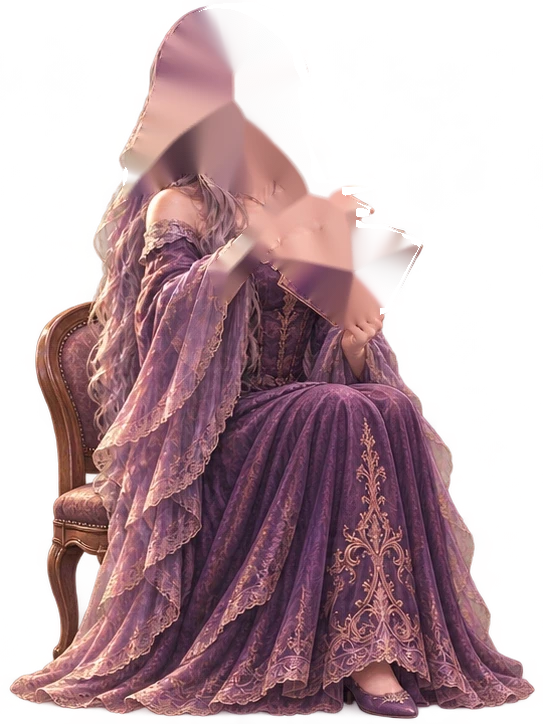
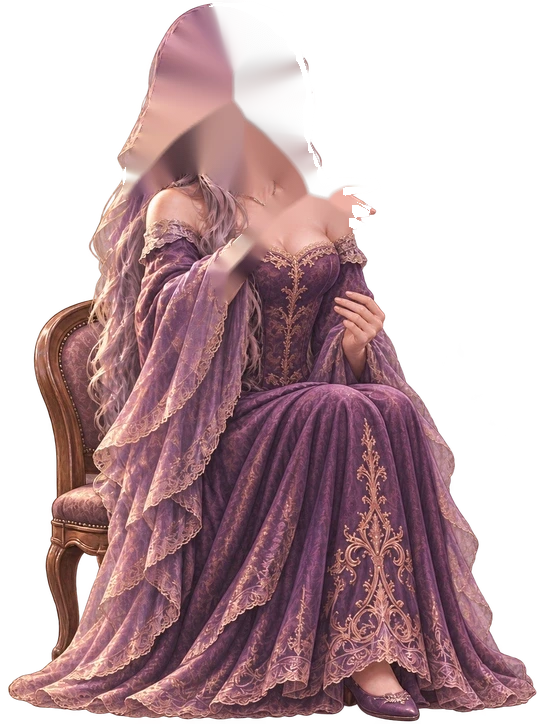
Restore the dealing costume and request direct tarot answers

diff --git a/magiccard/tools/render_seated.py b/magiccard/tools/render_seated.py
@@ -3,6 +3,7 @@
 Outlines are traced in the 288 x 384 storyboard coordinate system.
 """
 from pathlib import Path
+import argparse
 import cv2
 import numpy as np
 from PIL import Image
@@ -15,11 +16,21 @@ arms = {
     "answer": [(197,158),(210,152),(219,144),(232,140),(251,137),(254,141),(243,146),(256,147),(265,146),(267,151),(256,157),(240,162),(229,161),(216,157),(198,173)]
 }
 props = {
-    "deal": [(141,136),(154,128),(181,119),(201,119),(224,128),(205,165),(182,174)],
     "think": [(164,143),(168,104),(192,103),(194,108),(186,147)]
 }
 grip = [(176,159),(178,155),(186,157),(188,154),(202,160),(205,165),(202,173),(197,177),(193,178),(182,169)]
+parser = argparse.ArgumentParser(description=__doc__)
+parser.add_argument("--pose", choices=arms)
+pose = parser.parse_args().pose
 for name, outline in arms.items():
+    if pose and pose != name:
+        continue
+    if name == "deal":
+        # The empty hands and complete bodice are painted on the source plate.
+        # Cards are supplied at runtime, behind the fingers.
+        source = Path(__file__).parent / "artwork" / "seatdeal-empty.png"
+        with Image.open(source) as painting:
+            painting.convert("RGBA").resize((543, 724), Image.Resampling.LANCZOS).save(salon/"seatdeal.webp", quality=95)
     src = np.array(Image.open(salon/f"seat{name}.webp").convert("RGBA"))
     def mask(points):
         a = np.zeros(src.shape[:2],np.uint8)
